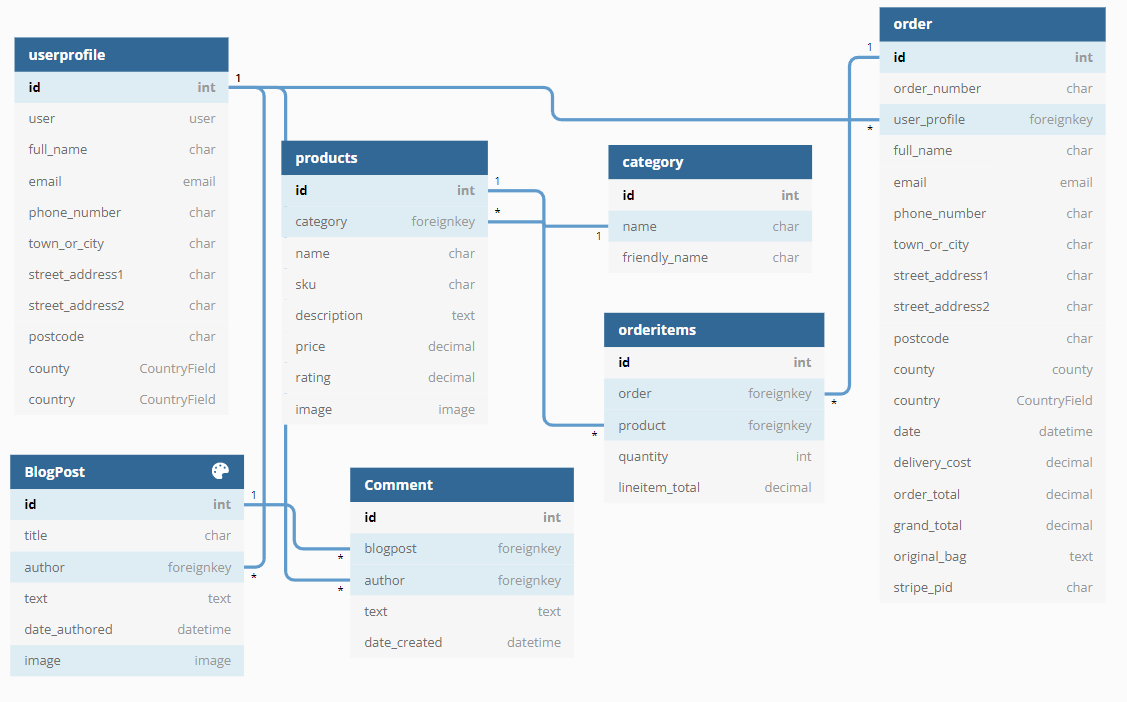
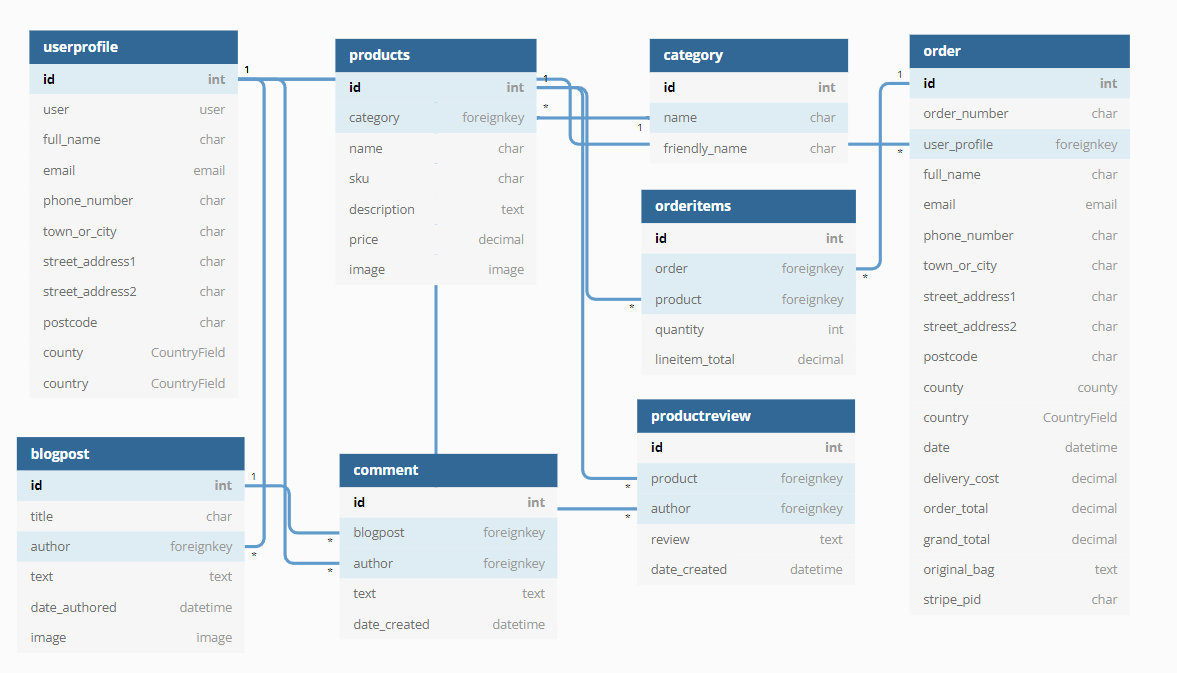
Update dbm section to include product review

diff --git a/README.md b/README.md
@@ -240,6 +240,9 @@ My database schema was initially built in excel and then built using the online 
 <img src="media/dbm_products.PNG">
 <img src="media/dbm_categories.PNG">
 
+### Product review
+<img src="media/product_review.png">
+
 ### Cart app
 <img src="media/dbm_order.PNG">
 <img src="media/dbm_items.PNG">
